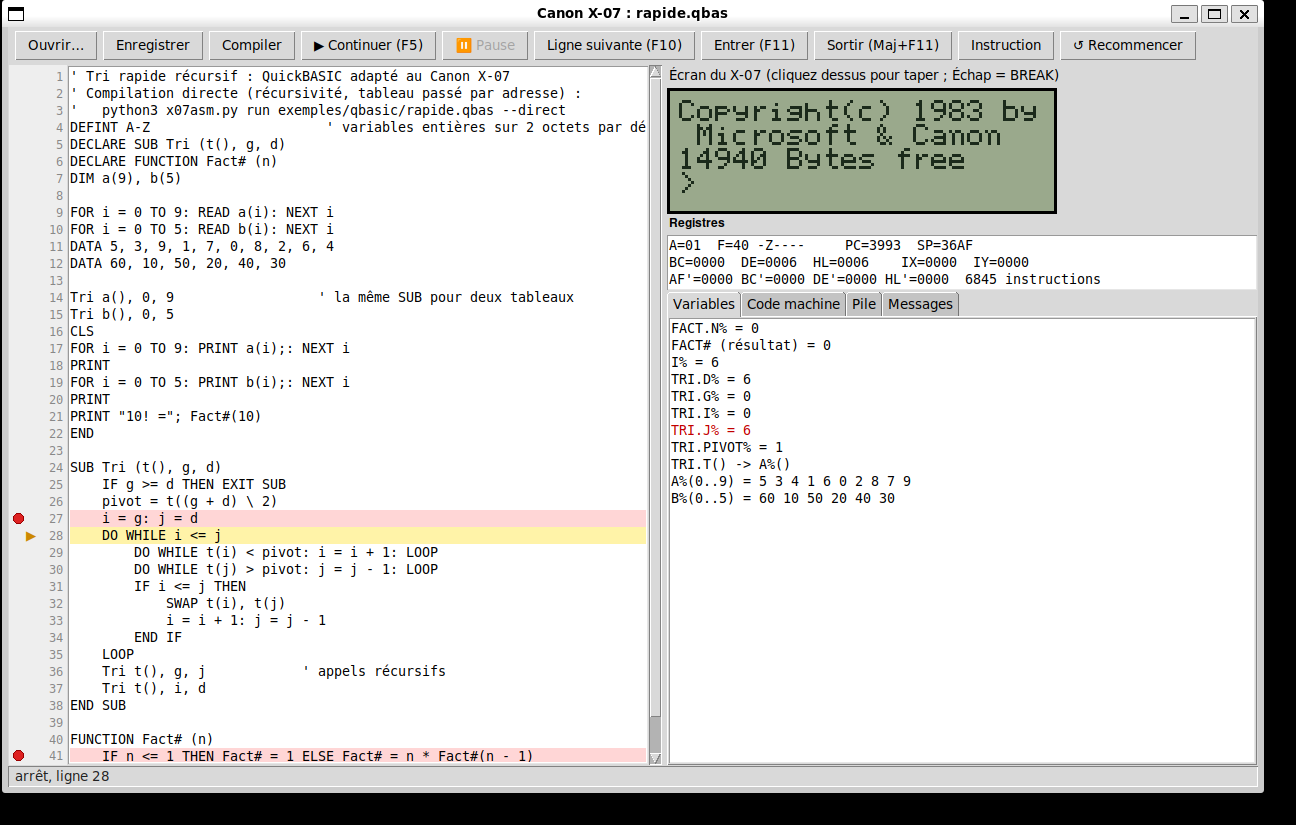
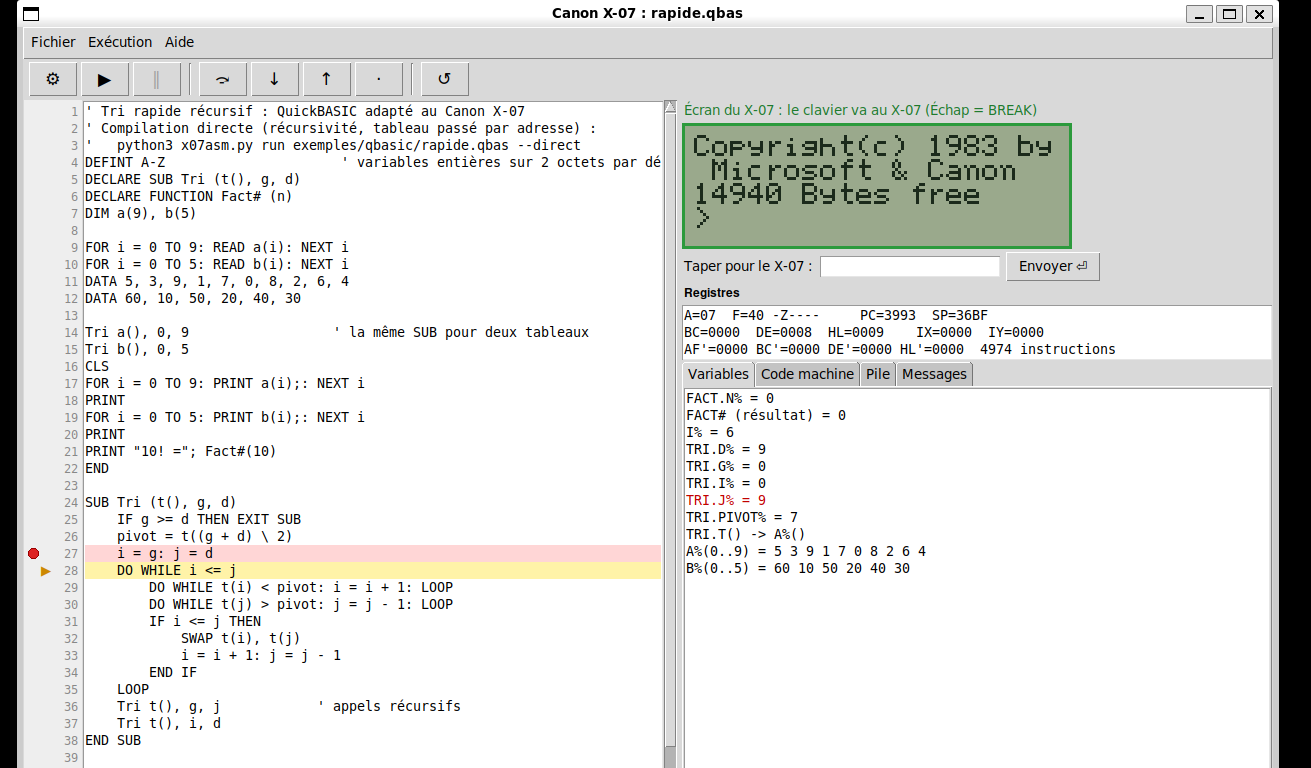
Éditeur-débogueur : barre de menus et barre d'outils à symboles
Les boutons en toutes lettres occupaient presque toute la largeur de la
fenêtre (environ 1200 pixels).  Les commandes sont maintenant dans des
menus en français (Fichier, Exécution, Aide), avec leurs raccourcis ;
celles du débogage ont aussi un bouton à symbole (⚙ ▶ ‖ ⤼ ↓ ↑ · ↺) et
une bulle d'aide au survol : la barre fait environ 440 pixels.  Menus et
boutons sont grisés quand ils ne peuvent pas servir.  Nouvelles
commandes : Enlever tous les points d'arrêt, Aide › Utilisation.

diff --git a/assembleur/x07asm/ide.py b/assembleur/x07asm/ide.py
@@ -291,6 +291,61 @@ class Session:
         return out
 
 
+# barre d'outils : clé, symbole, bulle d'aide, (méthode, arguments...)
+TOOLBAR = (
+    ("compiler", "⚙", "Compiler", ("compile",)),
+    ("continuer", "▶", "Continuer (F5)", ("do_run",)),
+    ("pause", "‖", "Pause (F9)", ("do_pause",)),       # (⏸ s'afficherait en émoji, non grisé)
+    (None, None, None, None),
+    ("ligne", "⤼", "Ligne suivante (F10)", ("do_step", "over")),
+    ("entrer", "↓", "Entrer dans la procédure (F11)", ("do_step", "into")),
+    ("sortir", "↑", "Sortir de la procédure (Maj+F11)", ("do_step", "out")),
+    ("instr", "·", "Une instruction machine", ("do_step", "instr")),
+    (None, None, None, None),
+    ("reinit", "↺", "Recommencer : recompiler et repartir du début", ("restart",)),
+)
+
+AIDE = """Éditeur-débogueur du Canon X-07
+
+Points d'arrêt : clic dans la marge, ou F9 sur la ligne du curseur.
+Continuer F5 · Ligne suivante F10 · Entrer F11 · Sortir Maj+F11
+Pause : bouton ‖ ou F9 (hors du source).
+
+Écran du X-07 : cliquez dessus pour lui donner le clavier (cadre vert),
+ou tapez une valeur dans le champ « Taper pour le X-07 », puis Entrée.
+Échap = BREAK.  Sur un clavier AZERTY, les chiffres demandent Maj.
+
+La mémoire du X-07 (fichiers en RAM) est gardée d'un lancement à
+l'autre ; --memoire FICHIER la garde d'une session à l'autre."""
+
+
+class Bulle:
+    """Bulle d'aide qui apparaît au survol d'un widget."""
+
+    def __init__(self, widget, text):
+        self.widget, self.text, self.win = widget, text, None
+        widget.bind("<Enter>", self.show)
+        widget.bind("<Leave>", self.hide)
+        widget.bind("<ButtonPress>", self.hide)
+
+    def show(self, event=None):
+        import tkinter as tk
+        if self.win is not None:
+            return
+        x = self.widget.winfo_rootx() + 4
+        y = self.widget.winfo_rooty() + self.widget.winfo_height() + 4
+        self.win = tk.Toplevel(self.widget)
+        self.win.wm_overrideredirect(True)
+        self.win.wm_geometry("+%d+%d" % (x, y))
+        tk.Label(self.win, text=self.text, bg="#ffffe0", relief="solid", bd=1,
+                 padx=5, pady=2, font=("Helvetica", 9)).pack()
+
+    def hide(self, event=None):
+        if self.win is not None:
+            self.win.destroy()
+            self.win = None
+
+
 class Editeur:
     """La fenêtre de l'éditeur-débogueur."""
 
@@ -312,30 +367,19 @@ class Editeur:
         mono = ("DejaVu Sans Mono", 10)
         self.mono = mono
 
+        self.build_menus()
         bar = tk.Frame(self.root)
-        bar.pack(fill="x", padx=4, pady=3)
-        nouveau = tk.Menubutton(bar, text="Nouveau ▾", relief="raised")
-        menu = tk.Menu(nouveau, tearoff=False)
-        for ext, label in KINDS:
-            menu.add_command(label="%s (%s)" % (label, ext),
-                             command=lambda e=ext: self.new_dialog(e))
-        nouveau.configure(menu=menu)
-        nouveau.pack(side="left", padx=2)
-        self.buttons = {"nouveau": nouveau}
-        for key, text, cmd in (
-                ("ouvrir", "Ouvrir…", self.open_dialog),
-                ("enregistrer", "Enregistrer", self.save),
-                ("enregistrer_sous", "Enregistrer sous…", self.save_as_dialog),
-                ("compiler", "Compiler", self.compile),
-                ("continuer", "▶ Continuer (F5)", self.do_run),
-                ("pause", "⏸ Pause", self.do_pause),
-                ("ligne", "Ligne suivante (F10)", lambda: self.do_step("over")),
-                ("entrer", "Entrer (F11)", lambda: self.do_step("into")),
-                ("sortir", "Sortir (Maj+F11)", lambda: self.do_step("out")),
-                ("instr", "Instruction", lambda: self.do_step("instr")),
-                ("reinit", "↺ Recommencer", self.restart)):
-            b = tk.Button(bar, text=text, command=cmd)
-            b.pack(side="left", padx=2)
+        bar.pack(fill="x", padx=4, pady=2)
+        self.buttons = {}
+        for key, symbol, tip, cmd in TOOLBAR:
+            if key is None:                       # séparateur
+                tk.Frame(bar, width=2, bd=1, relief="sunken").pack(side="left", fill="y",
+                                                                   padx=6, pady=2)
+                continue
+            b = tk.Button(bar, text=symbol, width=2, font=("DejaVu Sans", 13),
+                          command=lambda c=cmd: getattr(self, c[0])(*c[1:]))
+            b.pack(side="left", padx=1)
+            Bulle(b, tip)
             self.buttons[key] = b
         self.status = tk.Label(self.root, text="", anchor="w", fg="#222", relief="sunken",
                                padx=6)
@@ -410,6 +454,65 @@ class Editeur:
             self.load(path)
         self.update_buttons()
         self.root.after(40, self.tick)
+
+    # -------------------------------------------------- menus
+    def build_menus(self):
+        tk = self.tk
+        bar = tk.Menu(self.root)
+        self.menu_items = []                      # (menu, libellé, clé d'état)
+
+        def add(menu, label, cmd, key, accel=None):
+            menu.add_command(label=label, command=cmd, accelerator=accel)
+            self.menu_items.append((menu, label, key))
+
+        fichier = tk.Menu(bar, tearoff=False)
+        nouveau = tk.Menu(fichier, tearoff=False)
+        for ext, label in KINDS:
+            nouveau.add_command(label="%s (%s)" % (label, ext),
+                                command=lambda e=ext: self.new_dialog(e))
+        fichier.add_cascade(label="Nouveau", menu=nouveau)
+        self.menu_items.append((fichier, "Nouveau", "nouveau"))
+        add(fichier, "Ouvrir…", self.open_dialog, "ouvrir", "Ctrl+O")
+        add(fichier, "Enregistrer", self.save, "enregistrer", "Ctrl+S")
+        add(fichier, "Enregistrer sous…", self.save_as_dialog, "enregistrer_sous",
+            "Ctrl+Maj+S")
+        fichier.add_separator()
+        fichier.add_command(label="Quitter", command=self.close)
+        bar.add_cascade(label="Fichier", menu=fichier)
+
+        execution = tk.Menu(bar, tearoff=False)
+        add(execution, "Compiler", self.compile, "compiler")
+        add(execution, "Continuer", self.do_run, "continuer", "F5")
+        add(execution, "Pause", self.do_pause, "pause", "F9")
+        execution.add_separator()
+        add(execution, "Ligne suivante", lambda: self.do_step("over"), "ligne", "F10")
+        add(execution, "Entrer dans la procédure", lambda: self.do_step("into"), "entrer",
+            "F11")
+        add(execution, "Sortir de la procédure", lambda: self.do_step("out"), "sortir",
+            "Maj+F11")
+        add(execution, "Une instruction machine", lambda: self.do_step("instr"), "instr")
+        execution.add_separator()
+        add(execution, "Recommencer", self.restart, "reinit")
+        add(execution, "Enlever tous les points d'arrêt", self.clear_breaks, "reinit")
+        bar.add_cascade(label="Exécution", menu=execution)
+
+        aide = tk.Menu(bar, tearoff=False)
+        aide.add_command(label="Utilisation…", command=self.show_help)
+        bar.add_cascade(label="Aide", menu=aide)
+        self.root.configure(menu=bar)
+        self.menubar = bar
+
+    def show_help(self):
+        from tkinter import messagebox
+        messagebox.showinfo("Aide", AIDE, parent=self.root)
+
+    def clear_breaks(self):
+        if self.session is None:
+            return
+        for line in list(self.session.break_lines):
+            self.session.toggle_break(line)
+        self.sync_text_from_breaks()
+        self.refresh()
 
     # -------------------------------------------------- fichier
     FILETYPES = [("Programmes X-07", "*.bas *.qbas *.asm"), ("BASIC du X-07", "*.bas"),
@@ -719,16 +822,19 @@ class Editeur:
         self.draw_gutter()
         self.update_buttons()
 
-    def update_buttons(self):
+    def state_of(self, key):
         run = self.busy()
-        has = self.session is not None
+        if key == "pause":
+            return "normal" if run else "disabled"
+        if key in ("ouvrir", "nouveau"):
+            return "disabled" if run else "normal"
+        return "normal" if self.session is not None and not run else "disabled"
+
+    def update_buttons(self):
         for k, b in self.buttons.items():
-            if k == "pause":
-                b.configure(state="normal" if run else "disabled")
-            elif k in ("ouvrir", "nouveau"):
-                b.configure(state="disabled" if run else "normal")
-            else:
-                b.configure(state="normal" if has and not run else "disabled")
+            b.configure(state=self.state_of(k))
+        for menu, label, key in getattr(self, "menu_items", []):
+            menu.entryconfigure(label, state=self.state_of(key))
 
     def tick(self):
         s = self.session

diff --git a/assembleur/tests/test_ide.py b/assembleur/tests/test_ide.py
@@ -169,6 +169,35 @@ class TestWindow(unittest.TestCase):
             finally:
                 e.close()
 
+    def test_menus_and_toolbar(self):
+        from x07asm.ide import Editeur, TOOLBAR
+        e = Editeur(os.path.join(EX, "table.bas"))
+        r = e.root
+
+        def pump(t):
+            end = time.time() + t
+            while time.time() < end:
+                r.update()
+                time.sleep(0.02)
+        try:
+            pump(0.2)
+            labels = [e.menubar.entrycget(k, "label") for k in range(1, 4)]
+            self.assertEqual(labels, ["Fichier", "Exécution", "Aide"])
+            self.assertEqual(set(e.buttons), {k for k, *_ in TOOLBAR if k})
+            # largeur : la barre d'outils tient dans une petite partie de la fenêtre
+            self.assertLess(e.buttons["reinit"].master.winfo_reqwidth(), 500)
+            states = {label: menu.entrycget(label, "state") for menu, label, _ in e.menu_items}
+            self.assertEqual(states["Pause"], "disabled")          # rien ne tourne
+            self.assertEqual(states["Continuer"], "normal")
+            self.assertEqual(str(e.buttons["pause"]["state"]), "disabled")
+            e.compile()
+            e.toggle(4)
+            e.toggle(5)
+            e.clear_breaks()                                       # Exécution › Enlever...
+            self.assertEqual(e.session.break_lines, set())
+        finally:
+            e.close()
+
     def test_typing_while_stopped_and_input_field(self):
         from x07asm.ide import Editeur
         e = Editeur(os.path.join(EX, "table.bas"))

diff --git a/assembleur/DEBOGUEUR.md b/assembleur/DEBOGUEUR.md
@@ -57,20 +57,26 @@ La même mécanique que la commande `debug`, dans une fenêtre :
   - *Pile*.
   - *Messages* : avertissements de compilation, erreurs.
 
-| Bouton | Touche | Rôle |
-|---|---|---|
-| Nouveau ▾ | | nouveau programme : BASIC du X-07 (`.bas`), QuickBASIC (`.qbas`) ou assembleur (`.asm`) ; on choisit le nom, et le programme part d'un petit modèle qui fonctionne |
-| Ouvrir… | Ctrl+O | ouvrir un programme |
-| Enregistrer | Ctrl+S | |
-| Enregistrer sous… | Ctrl+Maj+S | enregistrer sous un autre nom, qui devient le fichier ouvert ; les points d'arrêt sont gardés. L'extension choisit le langage |
-| Compiler | | enregistre puis compile (aussi fait automatiquement avant de lancer un programme modifié) |
-| ▶ Continuer | F5 | jusqu'au prochain point d'arrêt, ou la fin |
-| ⏸ Pause | F9 hors du source | interrompt le programme, même s'il attend une touche |
-| Ligne suivante | F10 | une **ligne du source**, sans entrer dans les procédures appelées |
-| Entrer | F11 | une ligne du source, en entrant dans les `SUB`, `FUNCTION`, `GOSUB` |
-| Sortir | Maj+F11 | jusqu'à la fin de la routine en cours |
-| Instruction | | une seule instruction machine |
-| ↺ Recommencer | | recompile et repart du début |
+Les commandes sont dans la **barre de menus** (Fichier, Exécution, Aide). Celles du débogage ont aussi un **bouton à symbole**, avec une bulle d'aide au survol :
+
+| Menu | Bouton | Touche | Rôle |
+|---|---|---|---|
+| Fichier › Nouveau | | | nouveau programme : BASIC du X-07 (`.bas`), QuickBASIC (`.qbas`) ou assembleur (`.asm`) ; on choisit le nom, et le programme part d'un petit modèle qui fonctionne |
+| Fichier › Ouvrir… | | Ctrl+O | ouvrir un programme |
+| Fichier › Enregistrer | | Ctrl+S | |
+| Fichier › Enregistrer sous… | | Ctrl+Maj+S | enregistrer sous un autre nom, qui devient le fichier ouvert ; les points d'arrêt sont gardés. L'extension choisit le langage |
+| Exécution › Compiler | ⚙ | | enregistre puis compile (aussi fait automatiquement avant de lancer un programme modifié) |
+| Exécution › Continuer | ▶ | F5 | jusqu'au prochain point d'arrêt, ou la fin |
+| Exécution › Pause | ‖ | F9 hors du source | interrompt le programme, même s'il attend une touche |
+| Exécution › Ligne suivante | ⤼ | F10 | une **ligne du source**, sans entrer dans les procédures appelées |
+| Exécution › Entrer dans la procédure | ↓ | F11 | une ligne du source, en entrant dans les `SUB`, `FUNCTION`, `GOSUB` |
+| Exécution › Sortir de la procédure | ↑ | Maj+F11 | jusqu'à la fin de la routine en cours |
+| Exécution › Une instruction machine | · | | une seule instruction du Z80 |
+| Exécution › Recommencer | ↺ | | recompile et repart du début |
+| Exécution › Enlever tous les points d'arrêt | | | |
+| Aide › Utilisation… | | | rappel des touches et de l'usage de l'écran du X-07 |
+
+Un bouton ou une commande de menu est grisé quand il ne peut pas servir : Pause seulement pendant l'exécution, les autres seulement à l'arrêt.
 
 Avant d'ouvrir ou de créer un autre programme, ou en fermant la fenêtre, l'éditeur propose d'enregistrer les modifications en cours.
 
